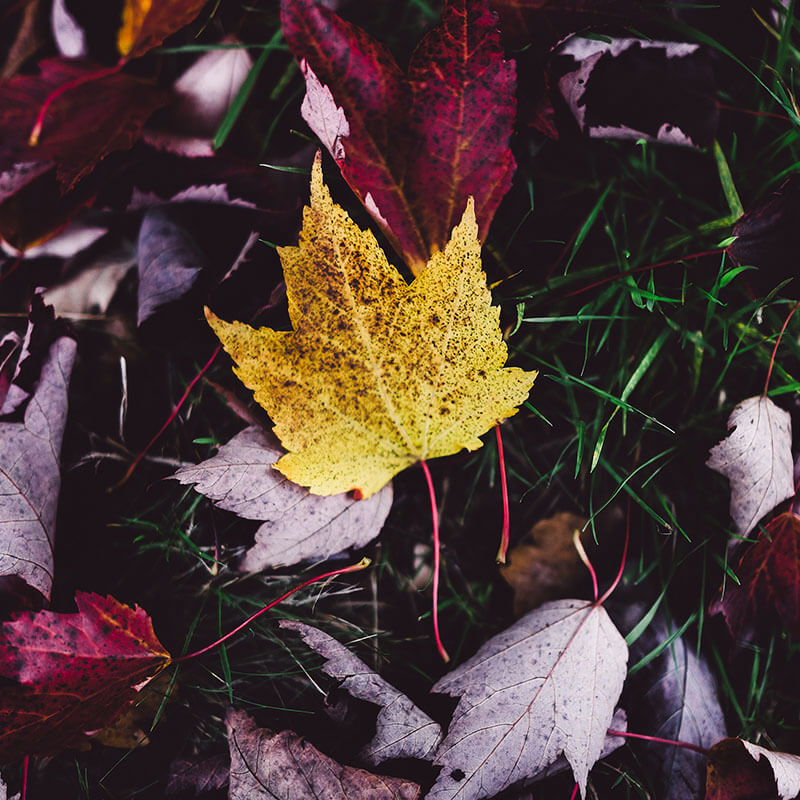
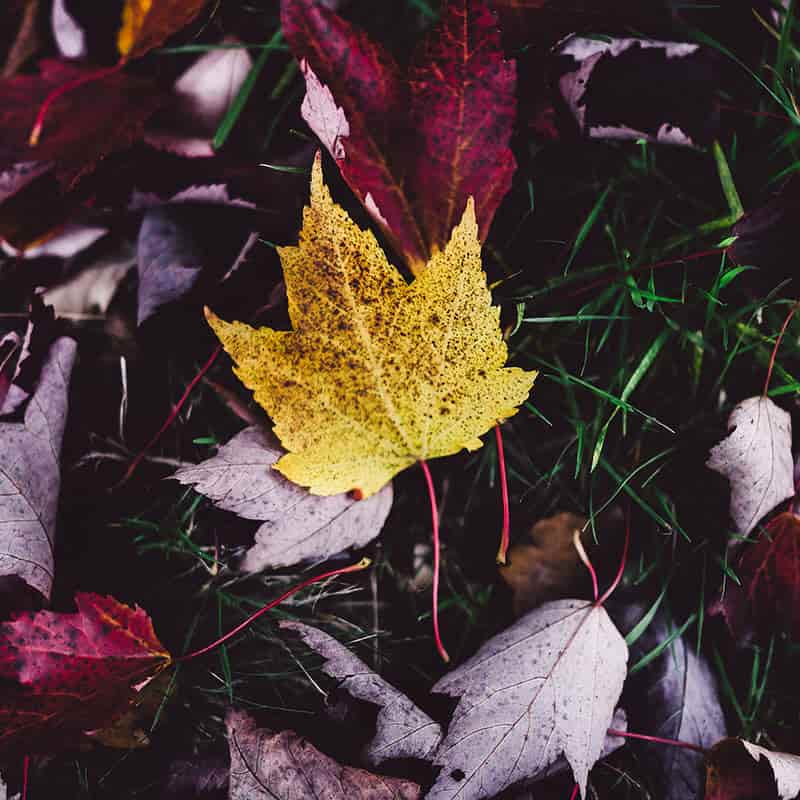
optimized photos

diff --git a/index.html b/index.html
@@ -10,7 +10,7 @@
     <!-- ===============================================-->
     <!--    Document Title-->
     <!-- ===============================================-->
-    <title>College Entertainment</title>
+    <title>Novel Entertainment</title>
 
 
     <!-- ===============================================-->
@@ -72,8 +72,8 @@
               <!--/.bg-holder-->
 
               <div class="col-10 col-sm-8 col-md-9 z-index-1">
-                <h1 class="text-white fs-2 fs-sm-4 fs-xl-5 display-4">Catch the BEST in College Entertainment</h1>
-                <h5 class="fs-0 fs-sm-1 mt-3 mt-md-5 text-white">CollegeEntertainment.net</h5>
+                <h1 class="text-white fs-2 fs-sm-4 fs-xl-5 display-4">The Freshest Catch in NOVEL Entertainment</h1>
+                <h5 class="fs-0 fs-sm-1 mt-3 mt-md-5 text-white">novelentertainment.org</h5>
               </div>
             </div>
           </div>
@@ -89,7 +89,7 @@
                   <h2 class="font-weight-light text-white fs-1 fs-xl-2 fs-xxl-3">Live Acts</h2>
                 </div>
               </div>
-              <div class="col-6 col-sm-3 minh-25vh h-lg-50vh sidebar-item-wrapper py-5" data-content="service">
+              <div class="col-6 col-sm-3 minh-25vh h-lg-50vh sidebar-item-wrapper py-5" data-content="escape-rooms">
                 <div class="bg-holder" style="background-image:url(pages/assets/img/navigation/red_Lock.png)">
                 </div>
                 <!--/.bg-holder-->
@@ -322,28 +322,33 @@
                       <div class="sortable" data-options='{"layoutMode":"packery"}'>
                         <div class="menu justify-content-center mb-3">
                           <div class="item px-3 text-uppercase active" data-filter="*">All</div>
-                          <div class="item px-3 text-uppercase" data-filter=".photography">Photography</div>
-                          <div class="item px-3 text-uppercase" data-filter=".studio">Studio</div>
-                          <div class="item px-3 text-uppercase" data-filter=".interior">Interior</div>
-                          <div class="item px-3 text-uppercase" data-filter=".illustration">Illustration</div>
+                          <div class="item px-3 text-uppercase" data-filter=".hypnosis">hypnosis & mentalism</div>
+                          <div class="item px-3 text-uppercase" data-filter=".comedy">comedy</div>
+                          <div class="item px-3 text-uppercase" data-filter=".magic-juggling">magic & juggling</div>
+                          <div class="item px-3 text-uppercase" data-filter=".musical-acts">musical acts</div>
                         </div>
                         <div class="row no-gutters sortable-container sortable-container-gutter-fix">
-                          <a class="col-6 col-md-4 sortable-item p-2 interior" href="pages/assets/img/projects/project-7-f.jpg" data-lightbox="image" data-title="my caption">
-                            <img class="w-100 rounded" src="pages/assets/img/projects/project-7.jpg" alt="" />
+                          
+                          <a class="col-6 col-md-4 sortable-item p-2 magic-juggling" href="pages/assets/img/projects/Doc-Volz-magic-steampunkc.JPG" data-lightbox="image" data-title="my caption">
+                            <img class="w-100 rounded" src="pages/assets/img/projects/Doc-Volz-magic-steampunkc.JPG" alt="" />
                           </a>
-                          <a class="col-6 col-md-4 sortable-item p-2 studio" href="pages/assets/img/projects/project-11-f.jpg" data-lightbox="image" data-title="my caption">
+                          <a class="col-6 col-md-4 sortable-item p-2 magic-juggling" href="pages/assets/img/projects/paul_mousetraps1.jpg" data-lightbox="image" data-title="my caption">
+                            <img class="w-100 rounded" src="pages/assets/img/projects/paul_mousetraps1.jpg" alt="" />
+                          </a>
+                          <a class="col-6 col-md-4 sortable-item p-2 comedy" href="pages/assets/img/projects/project-11-f.jpg" data-lightbox="image" data-title="my caption">
                             <img class="w-100 rounded" src="pages/assets/img/projects/project-11.jpg" alt="" />
                           </a>
-                          <a class="col-6 col-md-4 sortable-item p-2 photography" href="pages/assets/img/projects/project-8-f.jpg" data-lightbox="image" data-title="my caption">
-                            <img class="w-100 rounded" src="pages/assets/img/projects/project-8.jpg" alt="" />
+                          <a class="col-6 col-md-4 sortable-item p-2 magic-juggling" href="pages/assets/img/projects/puck4.jpg" data-lightbox="image" data-title="my caption">
+                            <img class="w-100 rounded" src="pages/assets/img/projects/puck4.jpg" alt="" />
                           </a>
-                          <a class="col-6 col-md-4 sortable-item p-2 studio" href="pages/assets/img/projects/project-9-f.jpg" data-lightbox="image" data-title="my caption">
+                          <a class="col-6 col-md-4 sortable-item p-2 hypnosis" href="pages/assets/img/projects/Larry-Volz-hypnosis2.jpg" data-lightbox="image" data-title="my caption">
+                            <img class="w-100 rounded" src="pages/assets/img/projects/Larry-Volz-hypnosis2.jpg" alt="" />
+                          </a>
+                          <a class="col-6 col-md-4 sortable-item p-2 comedy" href="pages/assets/img/projects/project-9-f.jpg" data-lightbox="image" data-title="my caption">
                             <img class="w-100 rounded" src="pages/assets/img/projects/project-9.jpg" alt="" />
                           </a>
-                          <a class="col-6 col-md-4 sortable-item p-2 photography" href="pages/assets/img/projects/project-12-f.jpg" data-lightbox="image" data-title="my caption">
-                            <img class="w-100 rounded" src="pages/assets/img/projects/project-12.jpg" alt="" />
-                          </a>
-                          <div class="col-6 col-md-4 sortable-item p-2 illustration">
+                         
+                          <div class="col-6 col-md-4 sortable-item p-2 musical-acts">
                             <img class="rounded w-100" src="pages/assets/img/projects/project-13.jpg" alt="" />
                             <a class="video-modal position-absolute r-0 b-0 pr-4 pb-3" href="https://www.youtube.com/watch?v=QD7pOiZBgy0" data-start="01" data-end="75">
                               <svg width="45" height="45" xmlns="http://www.w3.org/2000/svg" viewbox="0 0 274.19 274.19">
@@ -372,7 +377,7 @@
                               </div>
                             </div>
                           </div>
-                          <a class="col-6 col-md-4 sortable-item p-2 photography" href="pages/assets/img/projects/project-10-f.jpg" data-lightbox="image" data-title="my caption">
+                          <a class="col-6 col-md-4 sortable-item p-2 hypnosis" href="pages/assets/img/projects/project-10-f.jpg" data-lightbox="image" data-title="my caption">
                             <img class="w-100 rounded" src="pages/assets/img/projects/project-10.jpg" alt="" />
                           </a>
                         </div>
@@ -404,7 +409,7 @@
                   <div class="row align-items-center">
                     <div class="col-lg-6 text-lg-left">
                       <p class="fs--1 text-uppercase ls font-weight-bold mb-0">
-                        Copyright &copy;2021 College Entertainment, inc.</p>
+                        Copyright &copy;2021 Novel Entertainment, inc.</p>
                     </div>
                     <div class="col-lg-6 text-lg-right mt-2 mt-lg-0">
                       <p class="fs--1 text-uppercase ls font-weight-bold mb-0">Made with<span class="fas fa-heart mx-1"></span>by
@@ -427,7 +432,7 @@
           </div>
         </div>
       </div>
-      <div class="page position-absolute t-0 w-100" id="service">
+      <div class="page position-absolute t-0 w-100" id="escape-rooms">
         <div class="row no-gutters minh-100vh">
           <div class="col-lg-9 order-1 order-lg-0 page-content pt-6 pt-lg-0">
 
@@ -582,7 +587,7 @@
                   <div class="col text-center">
                     <h3 class="mb-2">Start your next project with us</h3>
                     <p class="lead">Email us at
-                      <a href="mailto:info@collegeentertainment.net">info@collegeentertainment.net </a>or call
+                      <a href="mailto:info@novelentertainment.org">info@novelentertainment.org </a>or call
                       <a href="tel:8045022089">(804)502-2089</a>
                     </p>
                   </div>
@@ -596,7 +601,7 @@
 
 
             <footer class="page-footer">
-              <div class="bg-holder" style="background-image:url(pages/assets/img/sidebars/service.jpg);background-position: 0 41%; transform: scale(1.1);">
+              <div class="bg-holder" style="background-image:url(pages/assets/img/sidebars/escape-rooms.png);background-position: 0 41%; transform: scale(1.1);">
               </div>
               <!--/.bg-holder-->
 
@@ -605,7 +610,7 @@
                   <div class="row align-items-center">
                     <div class="col-lg-6 text-lg-left">
                       <p class="fs--1 text-uppercase ls font-weight-bold mb-0">
-                        Copyright &copy;2021 College Entertainment, inc.</p>
+                        Copyright &copy;2021 novel entertainment, inc.</p>
                     </div>
                     <div class="col-lg-6 text-lg-right mt-2 mt-lg-0">
                       <p class="fs--1 text-uppercase ls font-weight-bold mb-0">Made with<span class="fas fa-heart mx-1"></span>by
@@ -619,11 +624,11 @@
           </div>
           <div class="col-lg-3 col-12 t-0 order-0 order-lg-1 position-absolute position-lg-relative">
             <div class="h-lg-100vh sticky-top py-4 sticky-area"><span class="btn-close"><img class="d-none d-lg-block times" src="pages/assets/img/times.svg" width="25" alt=""/><img class="d-lg-none" src="pages/assets/img/times-black.svg" width="18" alt=""/></span>
-              <div class="bg-holder" style="background-image:url(pages/assets/img/sidebars/service.jpg);">
+              <div class="bg-holder" style="background-image:url(pages/assets/img/sidebars/escape-rooms.png);">
               </div>
               <!--/.bg-holder-->
 
-              <h1 class="page-title">Our Service</h1>
+              <h1 class="page-title">Our Escape Rooms</h1>
             </div>
           </div>
         </div>
@@ -647,28 +652,28 @@
                     <div class="sortable" data-options='{"layoutMode":"packery"}'>
                       <div class="menu justify-content-center mb-3">
                         <div class="item px-3 text-uppercase active" data-filter="*">All</div>
-                        <div class="item px-3 text-uppercase" data-filter=".photography">Photography</div>
-                        <div class="item px-3 text-uppercase" data-filter=".studio">Studio</div>
-                        <div class="item px-3 text-uppercase" data-filter=".interior">Interior</div>
-                        <div class="item px-3 text-uppercase" data-filter=".illustration">Illustration</div>
+                        <div class="item px-3 text-uppercase" data-filter=".hypnosis">hypnosis</div>
+                        <div class="item px-3 text-uppercase" data-filter=".comedy">comedy</div>
+                        <div class="item px-3 text-uppercase" data-filter=".magic-juggling">magic-juggling</div>
+                        <div class="item px-3 text-uppercase" data-filter=".musical-acts">musical-acts</div>
                       </div>
                       <div class="row no-gutters sortable-container sortable-container-gutter-fix">
-                        <a class="col-6 col-md-4 sortable-item p-2 interior" href="pages/assets/img/projects/project-7-f.jpg" data-lightbox="image" data-title="my caption">
-                          <img class="w-100 rounded" src="pages/assets/img/projects/project-7.jpg" alt="" />
+                        <a class="col-6 col-md-4 sortable-item p-2 magic-juggling" href="pages/assets/img/projects/paul_mousetraps1.jpg" data-lightbox="image" data-title="my caption">
+                          <img class="w-100 rounded" src="pages/assets/img/projects/paul_mousetraps1.jpg" alt="" />
                         </a>
-                        <a class="col-6 col-md-4 sortable-item p-2 studio" href="pages/assets/img/projects/project-11-f.jpg" data-lightbox="image" data-title="my caption">
+                        <a class="col-6 col-md-4 sortable-item p-2 comedy" href="pages/assets/img/projects/project-11-f.jpg" data-lightbox="image" data-title="my caption">
                           <img class="w-100 rounded" src="pages/assets/img/projects/project-11.jpg" alt="" />
                         </a>
-                        <a class="col-6 col-md-4 sortable-item p-2 photography" href="pages/assets/img/projects/project-8-f.jpg" data-lightbox="image" data-title="my caption">
+                        <a class="col-6 col-md-4 sortable-item p-2 hypnosis" href="pages/assets/img/projects/project-8-f.jpg" data-lightbox="image" data-title="my caption">
                           <img class="w-100 rounded" src="pages/assets/img/projects/project-8.jpg" alt="" />
                         </a>
-                        <a class="col-6 col-md-4 sortable-item p-2 studio" href="pages/assets/img/projects/project-9-f.jpg" data-lightbox="image" data-title="my caption">
+                        <a class="col-6 col-md-4 sortable-item p-2 comedy" href="pages/assets/img/projects/project-9-f.jpg" data-lightbox="image" data-title="my caption">
                           <img class="w-100 rounded" src="pages/assets/img/projects/project-9.jpg" alt="" />
                         </a>
-                        <a class="col-6 col-md-4 sortable-item p-2 photography" href="pages/assets/img/projects/project-12-f.jpg" data-lightbox="image" data-title="my caption">
+                        <a class="col-6 col-md-4 sortable-item p-2 hypnosis" href="pages/assets/img/projects/project-12-f.jpg" data-lightbox="image" data-title="my caption">
                           <img class="w-100 rounded" src="pages/assets/img/projects/project-12.jpg" alt="" />
                         </a>
-                        <div class="col-6 col-md-4 sortable-item p-2 illustration">
+                        <div class="col-6 col-md-4 sortable-item p-2 musical-acts">
                           <img class="rounded w-100" src="pages/assets/img/projects/project-13.jpg" alt="" />
                           <a class="video-modal position-absolute r-0 b-0 pr-4 pb-3" href="https://www.youtube.com/watch?v=QD7pOiZBgy0" data-start="01" data-end="75">
                             <svg width="45" height="45" xmlns="http://www.w3.org/2000/svg" viewbox="0 0 274.19 274.19">
@@ -697,7 +702,7 @@
                             </div>
                           </div>
                         </div>
-                        <a class="col-6 col-md-4 sortable-item p-2 photography" href="pages/assets/img/projects/project-10-f.jpg" data-lightbox="image" data-title="my caption">
+                        <a class="col-6 col-md-4 sortable-item p-2 hypnosis" href="pages/assets/img/projects/project-10-f.jpg" data-lightbox="image" data-title="my caption">
                           <img class="w-100 rounded" src="pages/assets/img/projects/project-10.jpg" alt="" />
                         </a>
                       </div>
@@ -729,7 +734,7 @@
                   <div class="row align-items-center">
                     <div class="col-lg-6 text-lg-left">
                       <p class="fs--1 text-uppercase ls font-weight-bold mb-0">
-                        Copyright &copy;2021 College Entertainment, inc.</p>
+                        Copyright &copy;2021 novel entertainment, inc.</p>
                     </div>
                     <div class="col-lg-6 text-lg-right mt-2 mt-lg-0">
                       <p class="fs--1 text-uppercase ls font-weight-bold mb-0">Made with<span class="fas fa-heart mx-1"></span>by
@@ -835,7 +840,7 @@
                   <div class="row align-items-center">
                     <div class="col-lg-6 text-lg-left">
                       <p class="fs--1 text-uppercase ls font-weight-bold mb-0">
-                        Copyright &copy;2021 College Entertainment, inc.</p>
+                        Copyright &copy;2021 novel entertainment, inc.</p>
                     </div>
                     <div class="col-lg-6 text-lg-right mt-2 mt-lg-0">
                       <p class="fs--1 text-uppercase ls font-weight-bold mb-0">Made with<span class="fas fa-heart mx-1"></span>by
@@ -939,7 +944,7 @@
                   <div class="row align-items-center">
                     <div class="col-lg-6 text-lg-left">
                       <p class="fs--1 text-uppercase ls font-weight-bold mb-0">
-                        Copyright &copy;2021 College Entertainment, inc.</p>
+                        Copyright &copy;2021 novel entertainment, inc.</p>
                     </div>
                     <div class="col-lg-6 text-lg-right mt-2 mt-lg-0">
                       <p class="fs--1 text-uppercase ls font-weight-bold mb-0">Made with<span class="fas fa-heart mx-1"></span>by
@@ -990,7 +995,7 @@
                             <div class="row">
                               <div class="col-1"><span class="fas fa-map-marker-alt text-900"></span></div>
                               <div class="col">
-                                <h5 class="mb-1">College Entertainment</h5>
+                                <h5 class="mb-1">Novel Entertainment</h5>
                                 <p>6502 Lakevista Dr.
                                   <br/>Richmond, VA 23111</p>
                               </div>
@@ -1010,7 +1015,7 @@
                                 <div class="row">
                                   <div class="col-1 mr-3"><span class="fas fa-paper-plane text-900"></span></div>
                                   <div class="col pl-0">
-                                    <a href="mailto:info@collegeentertainment.net">info@collegeentertainment.net</a>
+                                    <a href="mailto:info@novelentertainment.org">info@novelentertainment.org</a>
                                   </div>
                                 </div>
                               </div>
@@ -1093,7 +1098,7 @@
                   <div class="row align-items-center">
                     <div class="col-lg-6 text-lg-left">
                       <p class="fs--1 text-uppercase ls font-weight-bold mb-0">
-                        Copyright &copy;2021 College Entertainment, inc.</p>
+                        Copyright &copy;2021 novel entertainment, inc.</p>
                     </div>
                     <div class="col-lg-6 text-lg-right mt-2 mt-lg-0">
                       <p class="fs--1 text-uppercase ls font-weight-bold mb-0">Made with<span class="fas fa-heart mx-1"></span>by
@@ -1158,7 +1163,7 @@
                   <div class="row align-items-center">
                     <div class="col-lg-6 text-lg-left">
                       <p class="fs--1 text-uppercase ls font-weight-bold mb-0">
-                        Copyright &copy;2021 College Entertainment, inc.</p>
+                        Copyright &copy;2021 novel entertainment, inc.</p>
                     </div>
                     <div class="col-lg-6 text-lg-right mt-2 mt-lg-0">
                       <p class="fs--1 text-uppercase ls font-weight-bold mb-0">Made with<span class="fas fa-heart mx-1"></span>by
@@ -1876,7 +1881,7 @@ js/</code></pre>
                   <div class="row align-items-center">
                     <div class="col-lg-6 text-lg-left">
                       <p class="fs--1 text-uppercase ls font-weight-bold mb-0">
-                        Copyright &copy;2021 College Entertainment, inc.</p>
+                        Copyright &copy;2021 novel entertainment, inc.</p>
                     </div>
                     <div class="col-lg-6 text-lg-right mt-2 mt-lg-0">
                       <p class="fs--1 text-uppercase ls font-weight-bold mb-0">Made with<span class="fas fa-heart mx-1"></span>by

diff --git a/planning/notes.md b/planning/notes.md
@@ -1,4 +1,4 @@
-# CollegeEntertainment.net
+# novelentertainment.org
 ## Web development plan
 - basic website with info about acts and activities "net the best in..."
 - create CRM
